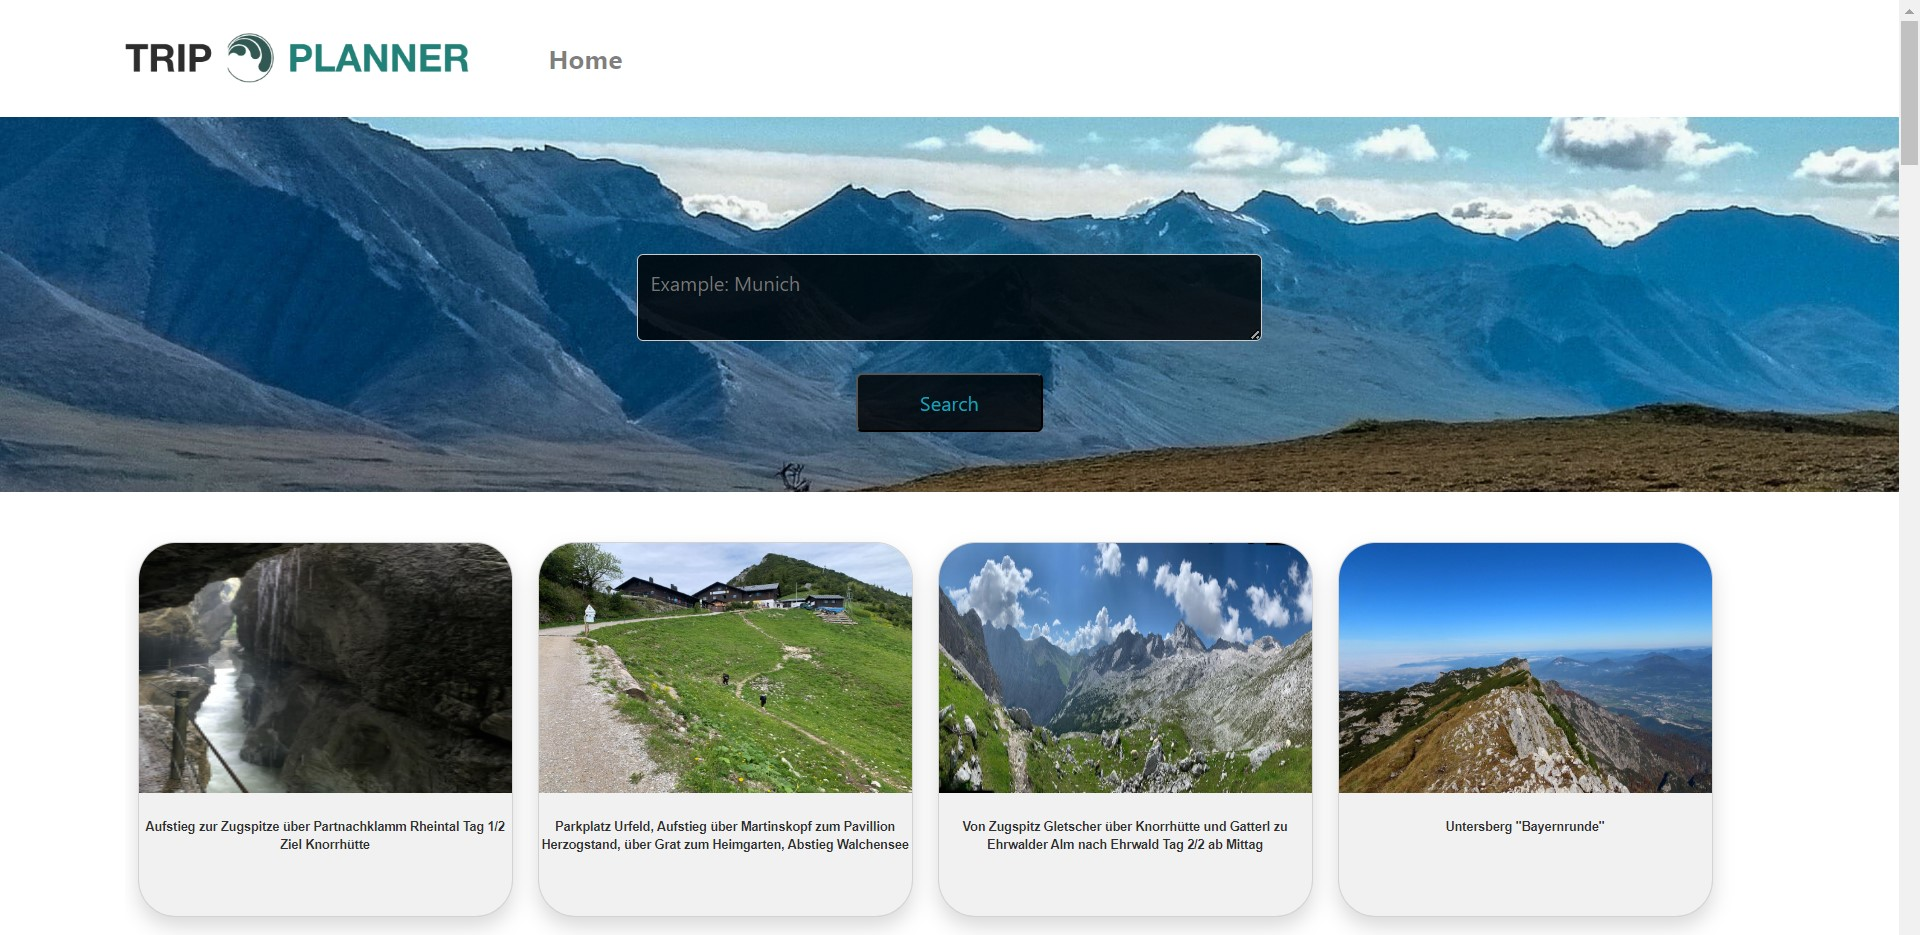
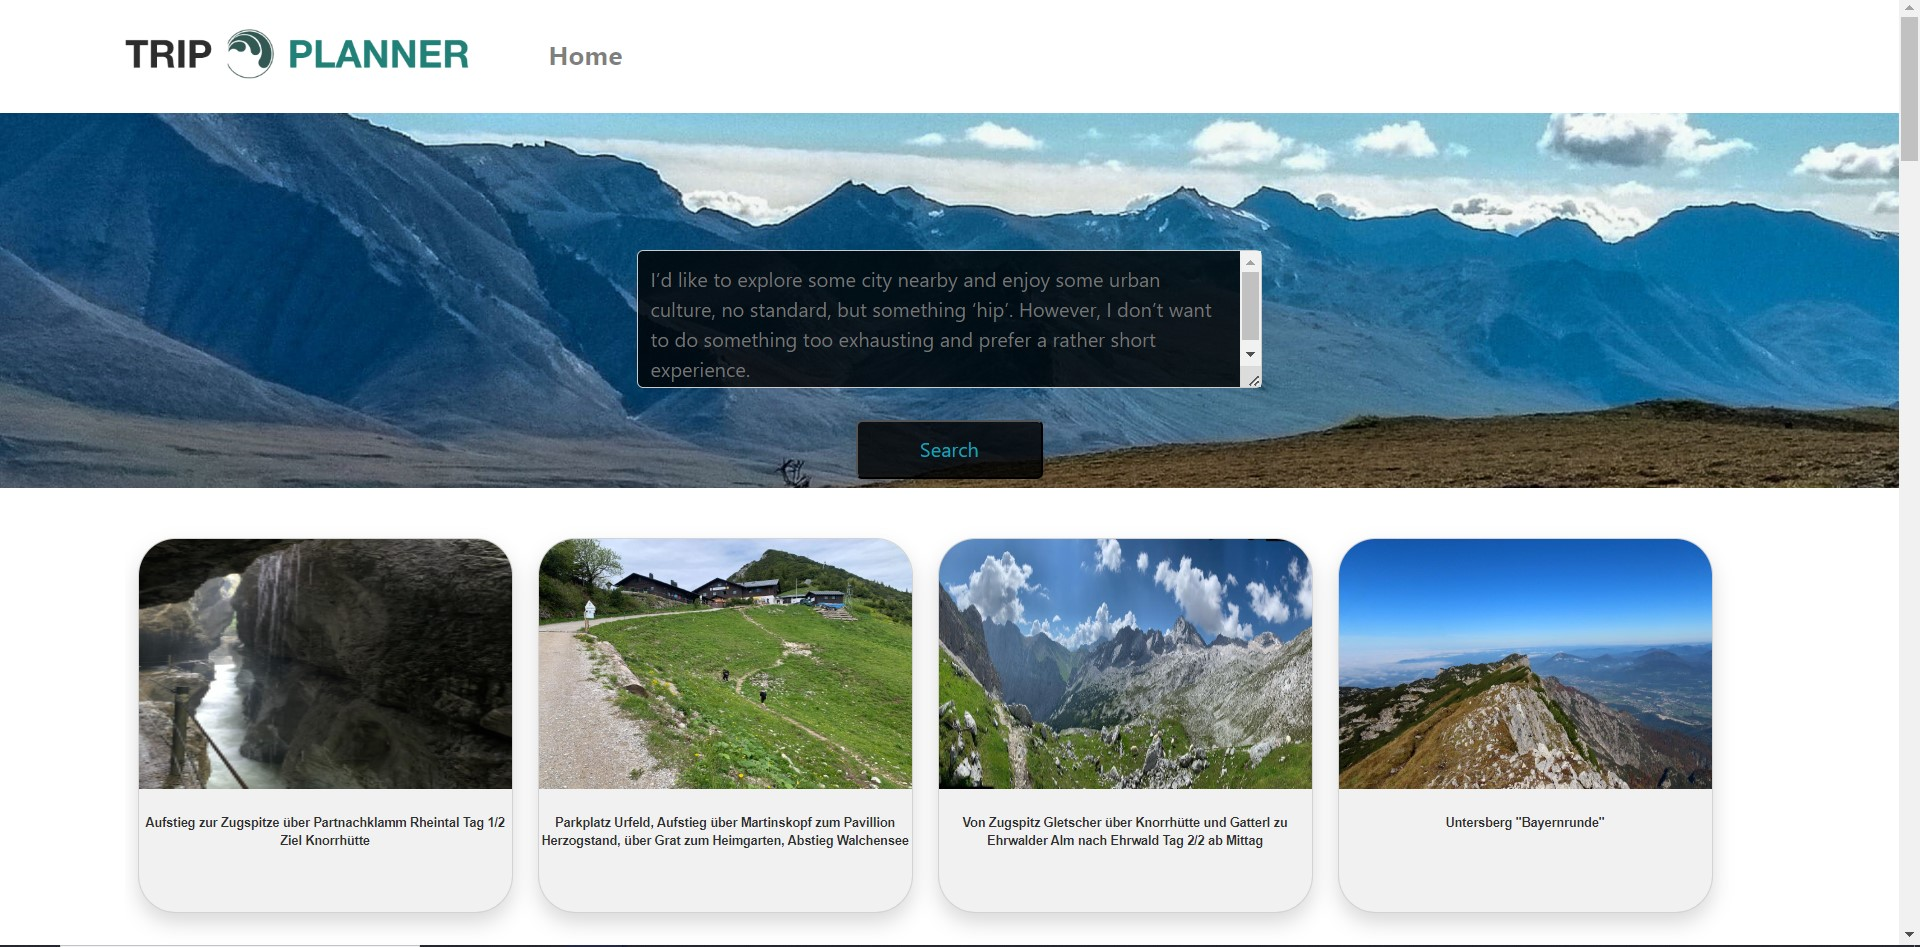
searchbox2

diff --git a/tourapp/static/tourapp/js/home.js b/tourapp/static/tourapp/js/home.js
@@ -5,25 +5,6 @@ $(document).ready(function() {
         // console.log('test1')
         getTours();
     });
-    // console.log('test2')
-    // var userLocation = '';
-
-    function getDetails(data) {
-        console.log(data)
-    //     $.ajax({
-    //         url: "http://127.0.0.1:8001/tourapp/tour/"+ id +"/details/",
-    //         type: "POST",
-    //         data: JSON.stringify(data),
-    //         contentType: "application/json",
-    //         success: function (tinyresponse) {
-    //             // var responseData = JSON.parse(response);
-    //             var tinyresponseData = tinyresponse;
-    //             // 获取用户查询和推荐旅行的列表
-    //             document.write(tinyresponseData);
-    //             console.log(tinyresponseData);
-    //             // var img = tinyresponseData[img_url]
-    //         }});
-    }
 
     function getTours() {
         // console.log('test3')
@@ -48,37 +29,19 @@ $(document).ready(function() {
             data: JSON.stringify(payload),
             contentType: "application/json",
             success: function (response) {
-                // 清空餐厅列表
                 $("#tours-list").empty();
-
                 var responseData = response;
-                
-                // 获取用户查询和推荐旅行的列表
                 var userQuery = responseData.user_query;
                 var recommendedTours = responseData.recommended_tours;
-                // window.location.href = "/details"
-                // window.location.href = "/details/?response=" + encodeURIComponent(JSON.stringify(response));
-                tinydata = recommendedTours
-                // 在控制台打印结果，以便调试
-                // console.log(userQuery);
-                // console.log(recommendedTours);
 
-                // var resultElement = $("#result");
-                // resultElement.html("<p>User Query: " + userQuery + "</p>");
+                tinydata = recommendedTours
 
                 if (recommendedTours.length > 0) {
-                    // 循环添加餐厅卡片
                     for (var i = 0; i < recommendedTours.length; i++) {
                         var tour = recommendedTours[i];
-                        console.log(i)
-
                         var card = $("#newTour").clone();
-                        console.log(card)
-                        // var card_id = i;
                         card.attr("card_id", i);
-                        // card.removeAttr("id");
                         card.find(".tour-text").text(tour.tour_title);
-                        // card.find(".rating").text(restaurant.tour_duration);
                         card.find(".card-img-top").attr("src", tour.image_url);
                         $("#tours-list").append(card);
                         card.show();
@@ -91,19 +54,10 @@ $(document).ready(function() {
                             data: JSON.stringify(tinydata),
                             contentType: "application/json",
                             success: function (tinyresponse) {
-                                // var responseData = JSON.parse(response);
                                 var tinyresponseData = tinyresponse;
-                                // 获取用户查询和推荐旅行的列表
                                 document.write(tinyresponseData);
                                 console.log(tinyresponseData);
-                                // var img = tinyresponseData[img_url]
                             },
-
-                        // window.location.href = "/tourapp/resto/details/"
-                        // Redirect to the details page with the corresponding tour_id
-
-
-                        // window.location.href = "/tourapp/resto/" + tourId + "/details/" + '?userInput=' + userInput;
                         });
 
                     })
@@ -116,7 +70,6 @@ $(document).ready(function() {
         });
             })
         }
-        // 构建请求数据对象
 
     }
 });

diff --git a/tourapp/templates/tourapp/home.html b/tourapp/templates/tourapp/home.html
@@ -3,7 +3,8 @@
 
 <div id="category-banner" class="text-center" xmlns="http://www.w3.org/1999/html">
     <div class="select-wrapper">
-        <textarea id="user-input" placeholder="Example: Munich"></textarea>
+        <textarea id="user-input" placeholder="I’d like to explore some city nearby and enjoy some urban culture, no standard, but something ‘hip’. However, I don’t want to do something too exhausting and prefer a rather short experience.
+"></textarea>
 
     </div>
     <button type="submit" id="category-btn">Search</button>

diff --git a/tourapp/static/tourapp/style/home.css b/tourapp/static/tourapp/style/home.css
@@ -26,14 +26,14 @@
 
 }
 #user-input {
-    resize: vertical;
+    /*resize: vertical;*/
   overflow: auto;
    padding: 10px;
   border: 1px solid #ccc;
   border-radius: 5px;
   font-size: 16px;
   width: 500px;
-  min-height: 20px;
+  height: 110px;
   color: white;
   background-color: rgba(0, 0, 0, 0.8);
 }
